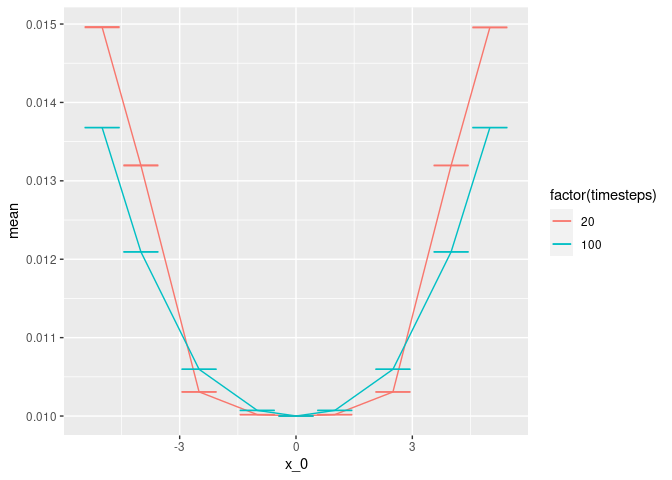
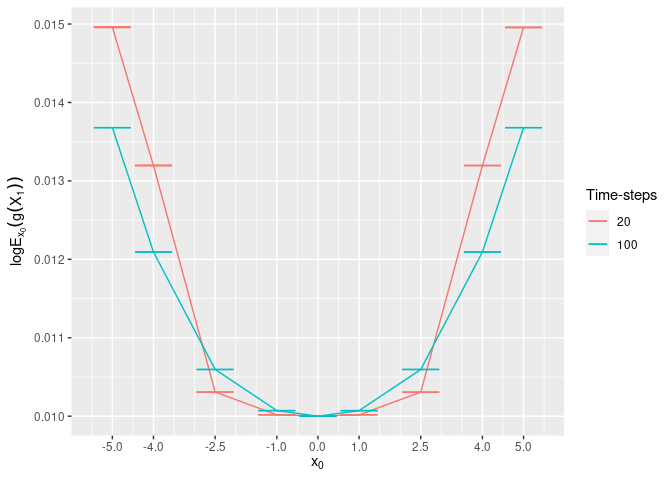
Fixed readme and added documentation

diff --git a/src/diff_SMC.cpp b/src/diff_SMC.cpp
@@ -38,11 +38,20 @@ double sin_lik(double x, double x_0, double t){
 
 
 
-//' SMC Sampler 2
+//' SMC Sampler Sin
 //' 
 //' Samples using SMC as in the framework laid out in \insertCite{doucet}{SC2GroupProject}.
 //' This function uses the SMC framework to implement Example 1 of Section 5.3 in 
 //' \insertCite{doucet}{SC2GroupProject} given in section 5.2.
+//' 
+//' This function carries out the \code{diff_SMC framework} for the following scenario.
+//' The diffusion process is \eqn{\mathrm{d}X_t=\sin(X_t-\omega)\mathrm{d}_t\mathrm{d}W_t}
+//' which we approximate with discrete time transition kernel
+//' \deqn{p^e_{\Delta t}(x,x_0)=\sqrt{\frac{1}{2\pi \Delta t^2}}\exp\{\frac{-(x-\sin(x_0-\omega)\Delta t+x_0)^2}{2\Delta t^2}\}}
+//' \eqn{g} is given by
+//' \deqn{g(x)=\begin{cases}\exp\{\frac{1}{\zeta-x^2}\}\quad\text{if }x\in(\sqrt{\zeta}-\omega',\omega'-\sqrt{\zeta})\\
+//'   0\quad\text{o/w}\end{cases}}
+//' For \eqn{\zeta=100,~\omega'=1e^{-30}}.
 //'
 //' @param x_0 starting value
 //' @param t The length of each time-step. 

diff --git a/src/RcppExports.cpp b/src/RcppExports.cpp
@@ -26,20 +26,9 @@ BEGIN_RCPP
     return rcpp_result_gen;
 END_RCPP
 }
-// rcpp_hello_world
-List rcpp_hello_world();
-RcppExport SEXP _SC2GroupProject_rcpp_hello_world() {
-BEGIN_RCPP
-    Rcpp::RObject rcpp_result_gen;
-    Rcpp::RNGScope rcpp_rngScope_gen;
-    rcpp_result_gen = Rcpp::wrap(rcpp_hello_world());
-    return rcpp_result_gen;
-END_RCPP
-}
 
 static const R_CallMethodDef CallEntries[] = {
     {"_SC2GroupProject_diff_SMC_sin", (DL_FUNC) &_SC2GroupProject_diff_SMC_sin, 6},
-    {"_SC2GroupProject_rcpp_hello_world", (DL_FUNC) &_SC2GroupProject_rcpp_hello_world, 0},
     {NULL, NULL, 0}
 };
 

diff --git a/README.md b/README.md
@@ -79,9 +79,9 @@ functions.
 
 ``` r
 log(harmonic_norm(out$gmat[,timesteps],out$Wmat,0.9))
-#> [1] 0.01001811
+#> [1] 0.01001776
 log(basic_norm(out$Wmat))
-#> [1] 0.009016305
+#> [1] 0.009015988
 ```
 
 Both these give approximations of
@@ -106,6 +106,8 @@ lines(-c(10,11),y=c(0,0))
 
 <img src="man/figures/README-unnamed-chunk-4-1.png" width="100%" />
 
+### C++ implementation
+
 As well as an R implementation of this sampler we have included a C++
 implementation which is significantly quicker. This implementation is
 specialised to this exact case and can be found in the function
@@ -121,9 +123,9 @@ out <- diff_SMC(g=g,p_delta=true_lik,M_T_samplers = rep(list(sampler),timesteps)
 
 
 log(harmonic_norm(out$gmat[,timesteps],out$Wmat,0.9))
-#> [1] 0.01001807
+#> [1] 0.0100178
 log(harmonic_norm(out_cpp$gmat[,timesteps],out$Wmat,0.9))
-#> [1] 0.01001794
+#> [1] 0.01001759
 ```
 
 We now show that this process gives significant speed increases
@@ -138,10 +140,12 @@ microbenchmark(C_version = diff_SMC_sin(x_0=1,t=step,n=10000,timesteps=timesteps
                  varphi = 0.9,x_0=1,resample = T),
                times = 10)
 #> Unit: relative
-#>       expr      min       lq     mean  median       uq      max neval
-#>  C_version  1.00000  1.00000  1.00000  1.0000  1.00000  1.00000    10
-#>  R_version 30.50787 28.52529 28.39146 28.2005 27.70722 27.87073    10
+#>       expr      min       lq     mean   median       uq      max neval
+#>  C_version  1.00000  1.00000  1.00000  1.00000  1.00000  1.00000    10
+#>  R_version 29.37307 31.44712 29.02672 29.66867 27.03834 26.34815    10
 ```
+
+### Approximations for various ![x_0](https://latex.codecogs.com/png.image?%5Cdpi%7B110%7D&space;%5Cbg_white&space;x_0 "x_0")
 
 We see that the C++ versions is almost 30 times faster which is
 impressive. We now use this to perform approximations for various values
@@ -173,6 +177,7 @@ for (i in 1:length(x_0s)){
 We now plot the estimations alongside there standard deviations.
 
 ``` r
+library(latex2exp)
 library(ggplot2)
 Preds_sum <- Preds %>% group_by(x_0) %>% 
   summarise(mean=mean(estimate),
@@ -180,7 +185,8 @@ Preds_sum <- Preds %>% group_by(x_0) %>%
             upper=mean+sd,lower=mean-sd)
 
 ggplot(Preds_sum,aes(x=x_0,y=mean,ymin=lower,ymax=upper))+geom_line()+
-  geom_errorbar()
+  geom_errorbar()+labs(x=TeX("$x_0$"),y=TeX("$\\log E_{x_0}(g(X_1))$"))+
+  scale_x_continuous(breaks=x_0s,minor_breaks = seq(from=-6,to=6,by=0.5))
 ```
 
 <img src="man/figures/README-unnamed-chunk-8-1.png" width="100%" />
@@ -211,15 +217,20 @@ Preds_sum2 <- Preds2 %>% group_by(timesteps,x_0) %>%
 #> `.groups` argument.
 
 ggplot(Preds_sum2,aes(x=x_0,y=mean,ymin=lower,ymax=upper,colour=factor(timesteps)))+geom_line()+
-  geom_errorbar()
+  geom_errorbar()+labs(x=TeX("$x_0$"),y=TeX("$\\log E_{x_0}(g(X_1))$"),colour="Time-steps")+
+  scale_x_continuous(breaks=x_0s,minor_breaks = seq(from=-6,to=6,by=0.5))
 ```
 
-<img src="man/figures/README-unnamed-chunk-10-1.png" width="100%" /> \#
-Additional Content \## True Samplers As well as the implementations
-shown above we have various other functions which can help with SMC.
-First of all we have implemented a method to do direct discrete sampling
-as well the the exact transition kernels for both Brownian Motion and
-Ornstein-Uhlenbeck Process.
+<img src="man/figures/README-unnamed-chunk-10-1.png" width="100%" />
+
+## Additional Content
+
+### True Samplers
+
+As well as the implementations shown above we have various other
+functions which can help with SMC. First of all we have implemented a
+method to do direct discrete sampling as well the the exact transition
+kernels for both Brownian Motion and Ornstein-Uhlenbeck Process.
 
 Here is an example of various simulated particles from Brownian Motion.
 
@@ -236,9 +247,12 @@ for (i in 1:10){
 }
 ```
 
-<img src="man/figures/README-unnamed-chunk-11-1.png" width="100%" /> \##
-Standard SMC We have also implemented a standard SMC sampler for use
-with any diffusions process
+<img src="man/figures/README-unnamed-chunk-11-1.png" width="100%" />
+
+### Standard SMC
+
+We have also implemented a standard SMC sampler for use with any
+diffusions process
 
 Below is a demonstration of using a Brownian Motion to generate samples
 from and Ornstein-Uhlenbeck process with
@@ -300,7 +314,7 @@ out <- Basic_SMC(init_sample=init_sample,
                  timesteps=timesteps)
 ```
 
-## Non-reweighted approach
+### Non-reweighted approach
 
 There is also an option in both `diff_SMC` and `diff_SMC_sin` to not do
 re-sampling and simply compound the weights. This is generally note
@@ -314,7 +328,7 @@ in the end weights?
 #Set our final timepoints
 Final_T=1
 #Set number of timesteps we will use
-timesteps=20
+timesteps=100
 #Get the size of each timestep
 step=Final_T/timesteps
 
@@ -333,16 +347,72 @@ g <- function(x){x^2}
 
 #Simulate 1,000 particles
 out_resamp <- diff_SMC(g=g,p_delta=true_lik,M_T_samplers = rep(list(sampler),timesteps),
-         M_T_lik = rep(list(true_lik),timesteps), n = 1000, timesteps = timesteps,
+         M_T_lik = rep(list(true_lik),timesteps), n = 100, timesteps = timesteps,
          varphi = 0.9,x_0=1,resample = TRUE)
 #Simulate 1,000 particles
 out_nonresamp <- diff_SMC(g=g,p_delta=true_lik,M_T_samplers = rep(list(sampler),timesteps),
-         M_T_lik = rep(list(true_lik),timesteps), n = 1000, timesteps = timesteps,
+         M_T_lik = rep(list(true_lik),timesteps), n = 100, timesteps = timesteps,
          varphi = 0.9,x_0=1,resample = FALSE)
 
-# This is not what we would expect.
-var(out_resamp$Wmat[,timesteps])
-#> [1] 0.2671712
-var(out_nonresamp$Wmat[,timesteps])
-#> [1] 0.01669416
+# Now normalise the weights to add up to 1
+norm_W_resamp <- out_resamp$Wmat[,timesteps]/sum(out_resamp$Wmat[,timesteps])
+norm_W_nonresamp <-  out_nonresamp$Wmat[,timesteps]/sum(out_nonresamp$Wmat[,timesteps])
+
+#Compare standard deviations
+sd(norm_W_resamp)
+#> [1] 0.001952011
+sd(norm_W_nonresamp)
+#> [1] 0.003335453
 ```
+
+As we can see the non-resampled weightings give double the standard
+deviation of the resampled weightings.
+
+### Timings
+
+What our algorithm has over the original paper is speed. We demonstrate
+this now be exactly mimicking their set-up. This is 5 starting points,
+10 times each with 1,000 particles and 20 time-points. Overall this took
+them 76.5 seconds.
+
+``` r
+x_0s <- c(-5,-2.5,0,2.5,5)
+preds <- rep(NA,10*length(x_0s))
+index <- 1
+start_time <- Sys.time()
+for (i in 1:length(x_0s)){
+  for (j in 1:10){
+    out <- diff_SMC_sin(x_0=x_0s[i],t=1/20,n=1000,timesteps=20,varphi=0.9,TRUE)
+    preds[i] <- log(harmonic_norm(out$gmat[,20],out$Wmat,0.9))
+    index=index+1
+  }
+}
+end_time <- Sys.time()
+
+print(end_time-start_time)
+#> Time difference of 0.3894539 secs
+```
+
+That’s over 150 time speed up.
+
+As the time is so short we do 100 iterations at each point and then
+divide the time by 10.
+
+``` r
+preds <- rep(NA,100*length(x_0s))
+index <- 1
+start_time <- Sys.time()
+for (i in 1:length(x_0s)){
+  for (j in 1:100){
+    out <- diff_SMC_sin(x_0=x_0s[i],t=1/20,n=1000,timesteps=20,varphi=0.9,TRUE)
+    preds[i] <- log(harmonic_norm(out$gmat[,20],out$Wmat,0.9))
+    index=index+1
+  }
+}
+end_time <- Sys.time()
+
+print((end_time-start_time)/10)
+#> Time difference of 0.3800671 secs
+```
+
+Even shorter!
